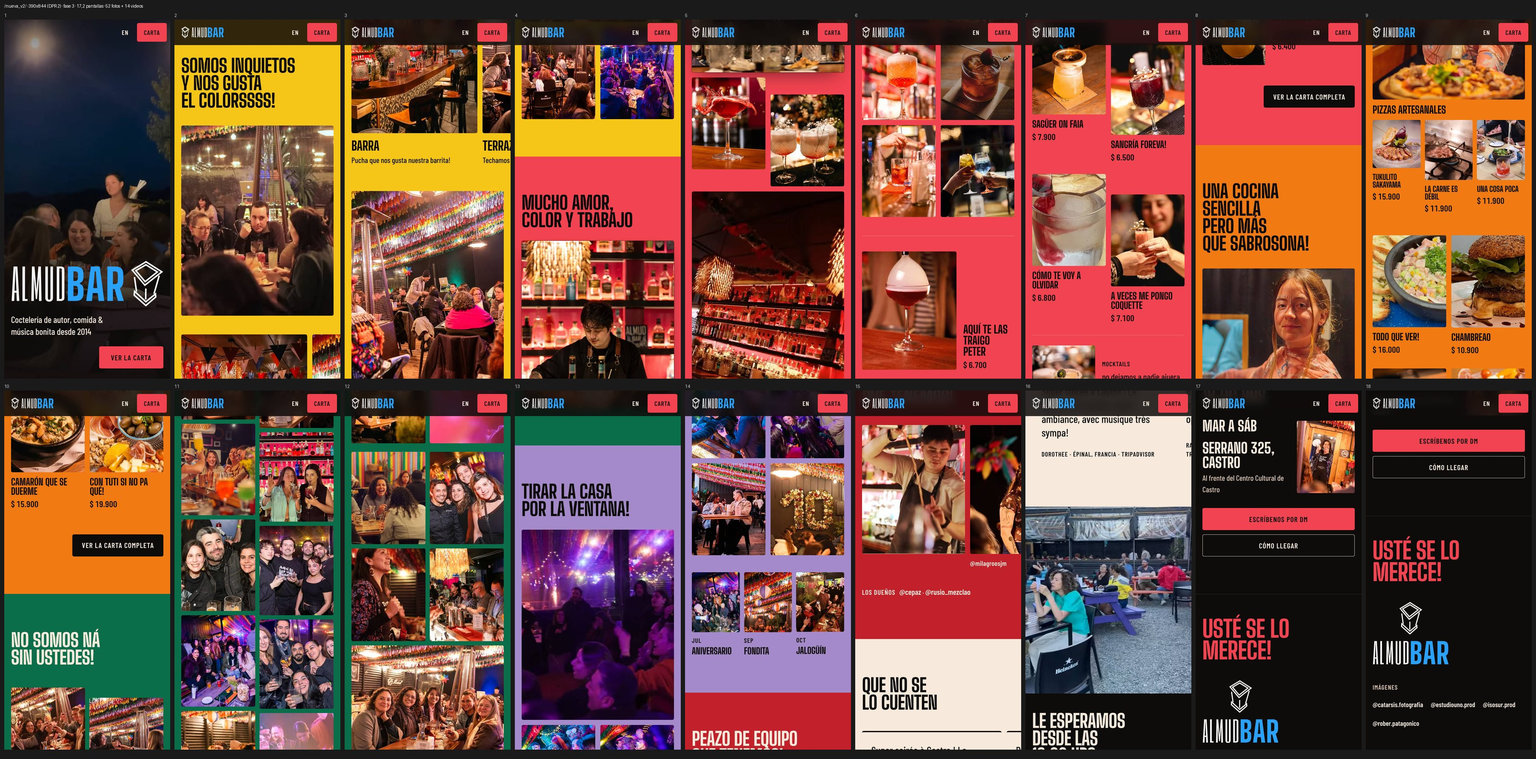
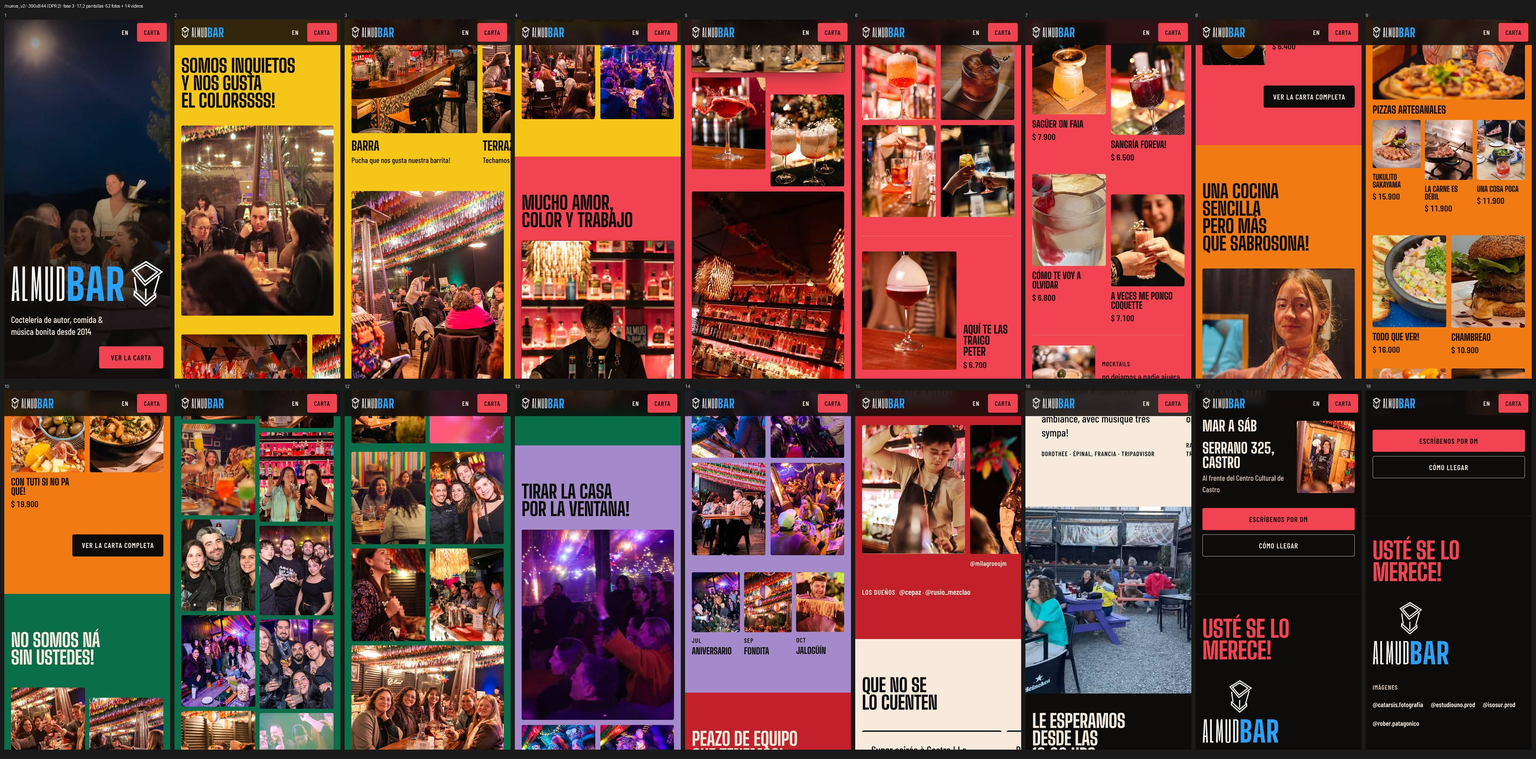
v4 fase 3 cerrada: 27→52 fotos, 12→17 pantallas en celular, sin huecos
Claude-Session: https://claude.ai/code/session_01R7WACHHVHZEdG4bayoWhor

diff --git a/_plan/v4/fase3/mapa-fotos.md b/_plan/v4/fase3/mapa-fotos.md
@@ -3,7 +3,7 @@
 Principio del cliente: «la mejor manera de vender un bar es mostrar que siempre está lleno». La protagonista es la multitud, no el barman ni los dueños.
 
 - **Antes:** 27 fotos + 14 videos. **Después:** 52 fotos + 14 videos (los mismos videos, en el mismo lugar).
-- Fotos nuevas: 25. Trece ya tenían recorte en `assets/v3` y se reutilizan sin recodificar; doce son recortes nuevos en `assets/nv2/img`, hechos con `tools/media_nv2.py` desde `tools/media_nv2.json`.
+- Fotos nuevas: 25. Doce ya tenían recorte en `assets/v3` y se reutilizan sin recodificar; trece son recortes nuevos en `assets/nv2/img`, hechos con `tools/media_nv2.py` desde `tools/media_nv2.json`.
 - Los nombres y precios son literales de `content/carta-v2.json`. Un plato o trago lleva nombre solo si la foto muestra ese plato. Las glosas EN salen de `content/carta-glosas-en-v3.json`.
 - Todas las fotos nuevas cargan diferido (`data-src`/`data-srcset`), con `srcset` AVIF + WebP de 480 a 1440 px y `sizes` según su ancho real en la grilla.
 
@@ -22,7 +22,7 @@ Principio del cliente: «la mejor manera de vender un bar es mostrar que siempre
 | 9 | `carta-coquette` | C9xrKP8Jehi_00 · P074 | Tragos con nombre | **A veces me pongo Coquette** · $ 7.100 | [IG-096] #avecesmepongocoquette: el trago rosado y cremoso de la carta, entregado a una clienta |
 | 10 | `comida-ceviche` | DY0AUvhlHjI_00 · P298 | Comida | **Todo que ver!** · $ 16.000 | [IG-022] «una cocina sencilla pero más que sabrosona!». Se identifica por los ingredientes: es el único ceviche de la carta (atún rojo, pimentón amarillo, palta, cebolla morada, cilantro, pan de la casa) |
 | 11 | `comida-hamburguesa` | DY0AUvhlHjI_13 · P305 | Comida | **Chambreao** · $ 10.900 | [IG-022]. Hamburguesa de vacuno con queso derretido, cebolla caramelizada y hojas verdes: coincide con la descripción de la carta |
-| 12 | `carta-camaron` | DAbw0xKSimd_00 · P099 | Comida | **Camarón que se duerme** · $ 15.900 | [IG-077] «cáchese esta gredita». La greda tiene camarones, champiñones y salsa de queso crema |
+| 12 | `carta-camaron` | DAbw0xKSimd_00 · P099 | Comida (última de la fila de 4) | — (sin nombre) | [IG-077] «cáchese esta gredita… calentito pal buche». El post no nombra el plato y en la carta hay dos con camarones en salsa cremosa («Camarón que se duerme» y «Eres tan exótica»). Como no se puede confirmar, va sin nombre ni precio
 | 13 | `carta-contuti` | DEVtFfySKVY_00 · P158 | Comida | **Con tuti si no pa qué!** · $ 19.900 | [IG-066] el post se llama igual que el plato («CON TUTI SI NO PA QUÉ!»). Es la tabla para compartir: el plato de la multitud |
 | 14 | `quien-sillones-llenos` | Dbg3ekilC4P_19 · P356 | Con quién, columna 1 | — | [IG-009] 12 años: un grupo grande sentado junto, bajo los banderines |
 | 15 | `quien-carcajadas` | DAMHps8JVVr_09 · P095 | Con quién, columna 1 | — | [IG-079] «ya sabe ya que no somos ná sin ustedes»: una mesa riendo a carcajadas |
@@ -33,11 +33,11 @@ Principio del cliente: «la mejor manera de vender un bar es mostrar que siempre
 | 20 | `eventos-cotillon-12` | Dbg3ekilC4P_17 · P354 | Eventos, tira de fiestas | — | [IG-009] 12 años, «guanderful jornada recreativa cumpleañística». Coronas y antifaces: los disfraces solo van en Eventos. Reemplaza a P349, que era el mismo instante de la foto de Aniversario |
 | 21 | `eventos-baile-12` | Dbok2NyFNdb_18 · P375 | Eventos, tira | — | [IG-008] «muchísima energía fiestera y risas»: la gente baila apretada |
 | 22 | `eventos-primavera` | DBMtYELSzNS_02 · P102 | Eventos, tira | — | [IG-075] «nuestro día de bienvenida a la esperada primavera»: mesas llenas bajo los banderines |
-| 23 | `eventos-10-anos` | C9dHAAxJkSi_00 · P073 | Eventos, tira | — | [IG-100] «GRACIAS por estos 10 años». Ranking #2. Era la favorita de Carmen «de evento»; en la tira sí tiene contexto, junto a las otras fiestas |
+| 23 | `eventos-terraza-12` | Dbg3ekilC4P_06 · P343 | Eventos, tira | — | [IG-009] 12 años: la terraza repleta, con la estufa y las guirnaldas. Reemplaza al «10» de flores (P073), que el cliente sacó porque no tiene contexto: Almud ya cumplió 12
 | 24 | `equipo-duo` | DaWM8rlo1FR_00 · P333 | Equipo, cierra la fila (recorte 3:2 en escritorio) | — | [IG-014] «Nuestras chicas super poderosas… @milagroosjm y @lizzearellano». Es el equipo actual confirmado |
 | 25 | `donde-puerta` | DM_Ih5dyVKH_17 · P199 | Cuándo y dónde, junto a la dirección | — | Selección del jurado (Cuándo y dónde): la puerta de madera con el megáfono y la polera «Te espero en la cuneta». La puerta es justamente la dirección |
 
-Las fotos 4–6, 8–13, 22–25 vienen de `assets/v3` (ya estaban recortadas, pero la página no las mostraba). Las fotos 1–3, 7 y 14–21 son recortes nuevos en `assets/nv2`.
+Las fotos 4–6, 8–13, 22, 24 y 25 vienen de `assets/v3` (ya estaban recortadas, pero la página no las mostraba). Las fotos 1–3, 7, 14–21 y 23 son recortes nuevos en `assets/nv2`.
 
 ## Conteo por sección (fotos, sin videos)
 
@@ -59,9 +59,22 @@ Las fotos 4–6, 8–13, 22–25 vienen de `assets/v3` (ya estaban recortadas, p
 | `equipo-grupo` (C-bY0mLNYRz, IG-091) | Es de 2024 y etiqueta a personas que ya no figuran en el equipo de 2025 (IG-050), como @k.o_ds. **Duda para el cliente** |
 | `equipo-elymar` (P396) | Lleva disfraz (tiara y alas) fuera de Eventos |
 | P198 (hombre que brinda) | Primer plano de una sola persona que no es del equipo |
+| P073 (el «10» de flores, 10 años) | Lo pidió el cliente: no tiene contexto, porque Almud acaba de cumplir 12 |
 | P349 (brazos arriba, 12 años) | Mismo instante que la foto de Aniversario (P348) |
 | DM_Ih5dyVKH_01/02/09/18 (bartenders, 11 años) | [IG-050] agradece a bartenders invitados de @elgobernadorofficialcl: pueden ser terceros. Además, el protagonista no es el barman |
 | DJ de IG-050 y músicos de IG-075 | Terceros (músicos invitados) |
 | `lugar-salon`, `lugar-cuadros`, frames de 720 px | Baja resolución |
 | `eventos-14f`, afiches de Negroni Week | Llevan texto encima |
 | P242, P229, P234 (Jalogüín) | Disfraces: Jalogüín ya está como video en Eventos |
+
+## Verificación (Playwright, public/ servido en local)
+
+| Vista | Pantallas (antes → después) | Errores | 4xx | Desborde | Videos en play | Huecos en grillas |
+|---|---|---|---|---|---|---|
+| 390×844 | 12,3 → **17,2** | 0 | 0 | no | 13/13 | ninguno: lo que queda son los 12–40 px de gap y los escalones de diseño |
+| 768×1024 | 14,8 → 18,2 | 0 | 0 | no | 13/13 | ninguno |
+| 1440×900 | 13,6 → 18,8 | 0 | 0 | no | 13/13 | ninguno |
+
+Primer pantallazo del celular: 1.461 KB con gzip (1,43 MB; 1.669 KB sin compresión, 12 archivos). Ninguna foto nueva entra en él. La raíz y /nueva/ no cambian (`git diff --quiet -- public/index.html public/nueva/index.html public/css/v4`).
+
+Dudas para el cliente: (1) ¿la foto del equipo de 2024 (IG-091) tiene exempleados? (2) La identificación de «Todo que ver!» y «Chambreao» se hizo por los ingredientes, porque IG-022 no los nombra: hay que confirmarla.

diff --git a/_plan/v4/justificacion.md b/_plan/v4/justificacion.md
@@ -29,3 +29,11 @@ Su Instagram, en una línea (Pablo, 22-oct): colorido, muchas fotos, muchos vide
 | 21 | 2 | Eventos: la ficha de Jalogüín pasa a ser video, con disfraces, risas y la barra llena | Las fiestas se ven mejor en movimiento; en Eventos los disfraces sí corresponden | [IG-072] «Lo dimos todoooo porque amamos jalogüinssss!» |
 | 22 | 2 | (Reemplaza la #16 y la #19) Comida: dos videos reales con encuadre original, rotulados con su nombre y precio literales de la carta: «La carne es débil» (sartén) y «Una cosa poca» (queso fundido estirándose, 7,33 s). Sale el recorte de «Con tuti» | Decisión del cliente: en un recorte no se nota el plato | [IG-022] «una cocina sencilla pero más que sabrosona!»; [IG-036] |
 | 23 | 2 | (Amplía la #15) Con quién: tres videos de multitud repartidos en las tres columnas (izquierda arriba, derecha al medio, central abajo), sin huecos | «no somos ná sin ustedes!»: la sección es de la gente, en plural | [IG-051]; [IG-049] «no quedaba otra que darlo todo» |
+| 24 | 3 | Más fotos: de 27 a 52 (y los mismos 14 videos, en su lugar). La multitud es la protagonista: 25 nuevas, de las cuales 12 son de gente llenando el local o celebrando | Principio del cliente: «la mejor manera de vender un bar es mostrar que siempre está lleno». Su feed son carruseles de 8 a 20 fotos de gente por post | [IG-026] «Ya saben que no somos ná sin ustedes! Faltan muuuchas más, pero no se pueden subir más de 20»; [IG-050]; [IG-008]; `_plan/v4/fase3/mapa-fotos.md` |
+| 25 | 3 | El lugar: debajo de los rincones, una franja «lleno» con la terraza techada y el salón repletos (P196, P185, P359) | Los rincones muestran el espacio y la franja muestra que siempre está lleno | [IG-050] «tod@s nuestros fieles amiguis que siempre nos acompañan»; [IG-008] «carretitos como este, llenos de güena ondi» |
+| 26 | 3 | Tragos: la banda de ambiente pasa de 3 fotos a 7 (copa tallada, old fashioned, negroni, brindis) y los tragos con nombre de 4 a 6 («Cómo te voy a olvidar» $ 6.800, «A veces me pongo Coquette» $ 7.100). El old fashioned va sin nombre: en IG se llama «En qué topamoh?!», que ya no está en la carta | Un trago lleva nombre solo si la foto es ese trago y el nombre está en la carta actual | [IG-002]; [IG-096] #avecesmepongocoquette; [IG-178]; [IG-042] |
+| 27 | 3 | Comida: 4 platos más bajo la fila de videos: «Todo que ver!» $ 16.000, «Chambreao» $ 10.900, «Con tuti si no pa qué!» $ 19.900 y la greda de camarones, que va sin nombre (en la carta hay dos platos con camarones en crema) | «una cocina sencilla pero más que sabrosona!»: se muestra la carta con fotos propias | [IG-022]; [IG-066]; [IG-077] |
+| 28 | 3 | Con quién: de 6 a 12 fotos, cinco por columna. Los tres videos siguen arriba a la izquierda, al medio a la derecha y abajo al centro; en el celular la mesa llena cierra a lo ancho | La sección del título «no somos ná sin ustedes!» tiene que verse repleta de gente | [IG-026] (el mismo texto); [IG-079] «ya sabe ya que no somos ná sin ustedes»; [IG-047] |
+| 29 | 3 | Eventos: una tira de 4 fiestas con gente (los 12 años con cotillón, el baile y la terraza repleta, más la bienvenida a la primavera). Se descarta el «10» de flores | Almud acaba de cumplir 12, y el «10» sin contexto confunde (pedido del cliente) | [IG-009]; [IG-008]; [IG-075] |
+| 30 | 3 | Equipo: el dúo de garzonas cierra la fila (4 + 4 en escritorio, sin huecos). Cuándo y dónde: la puerta con el megáfono junto a la dirección | El equipo actual que confirma su IG; la puerta es la dirección | [IG-014] «Nuestras chicas super poderosas»; [IG-050] (P199) |
+| 31 | 3 | Más aire: el padding de cada sección pasa a 88 px en celular, 112 px en tablet y ~130 px en escritorio, con grillas parejas sin huecos. La página pasa de 12,3 a 17,2 pantallas en celular y de 13,6 a 18,8 en escritorio; el primer pantallazo sigue en 1,43 MB con gzip | El cliente: «la página se siente corta y quieta… dale aire, más fotos» | Medido con Playwright a 390, 768 y 1440 px (`_plan/v4/fase3/hoja-celular.jpg`, `hoja-escritorio.jpg`) |
